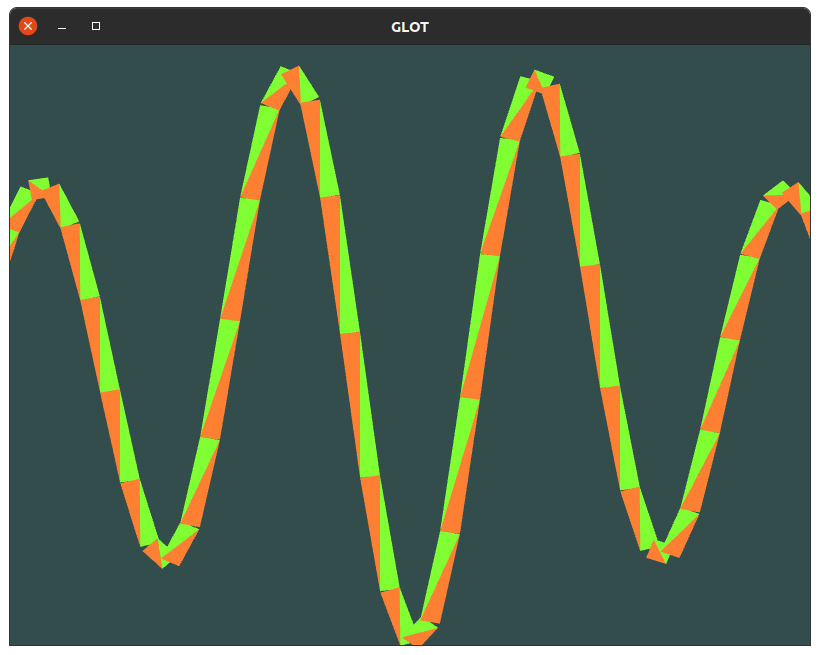
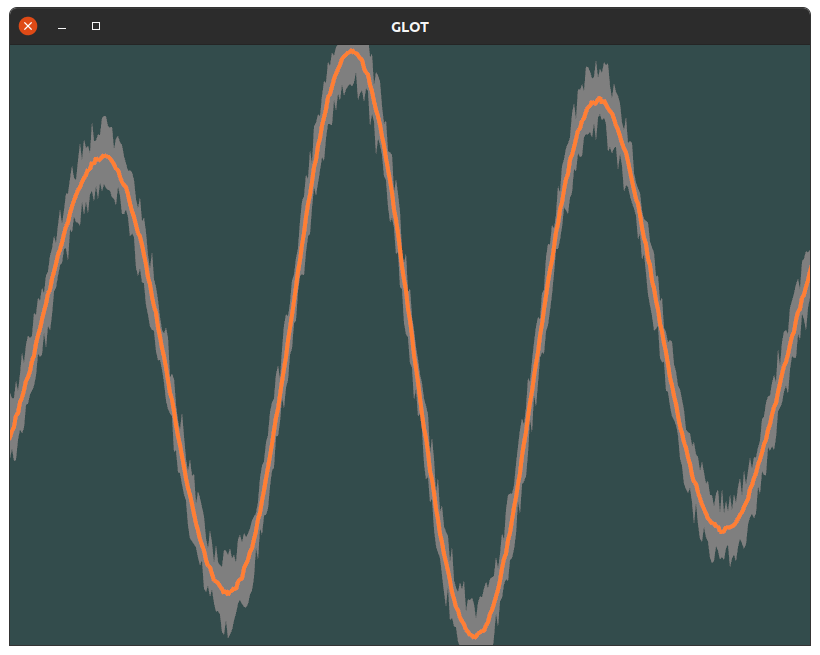
Updated screenshot and wording in readme

Changed region(s): [[0.0, 0.0611, 1.0, 1.0]]

diff --git a/README.md b/README.md
@@ -1,4 +1,4 @@
-Glot in an example project showing how lines of varying thicknesses can be drawn using geometry shaders.
+Glot in an example project showing how graphs can be plotted using arbitrary thickness lines along error (noise) bars can be drawn efficiently using geometry shaders.
 
 ## Debian/Ubuntu
 Install deps:
